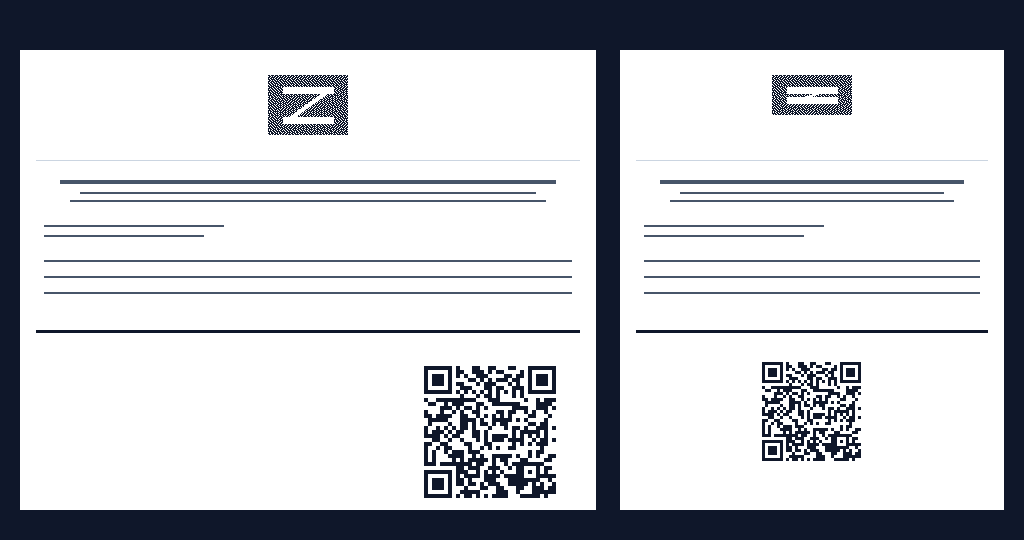
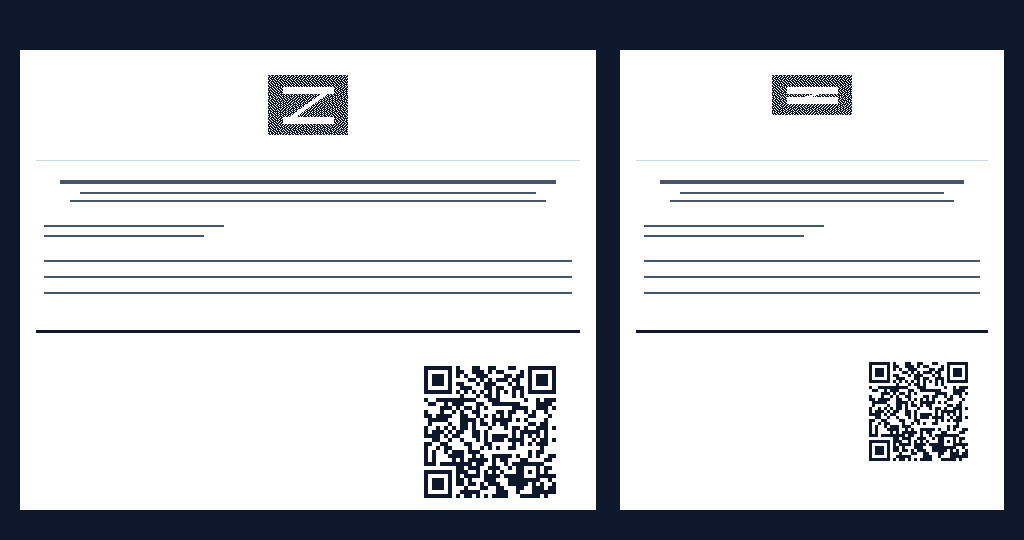
fix(printing): make ESC/POS raster preview QR alignment right by default at both widths

Changed region(s): [[0.7188, 0.6519, 0.9688, 0.8593]]

diff --git a/frontend/scripts/generateEscposRasterPreview.js b/frontend/scripts/generateEscposRasterPreview.js
@@ -202,8 +202,8 @@ function renderThermalRoll(paperWidth, logo, qr, title) {
   }
 
   // Blit QR Code in footer
-  // Right-aligned on 80mm, centered on 58mm
-  const qrX = paperWidth > 400 ? paperWidth - qr.width - 24 : Math.floor((paperWidth - qr.width) / 2);
+  // Right-aligned by default on both 80mm and 58mm matching profile.js default (qrAlign: 'right')
+  const qrX = paperWidth - qr.width - 24;
   const qrY = 300;
   blitBitmap(qr, qrX, qrY);
 
